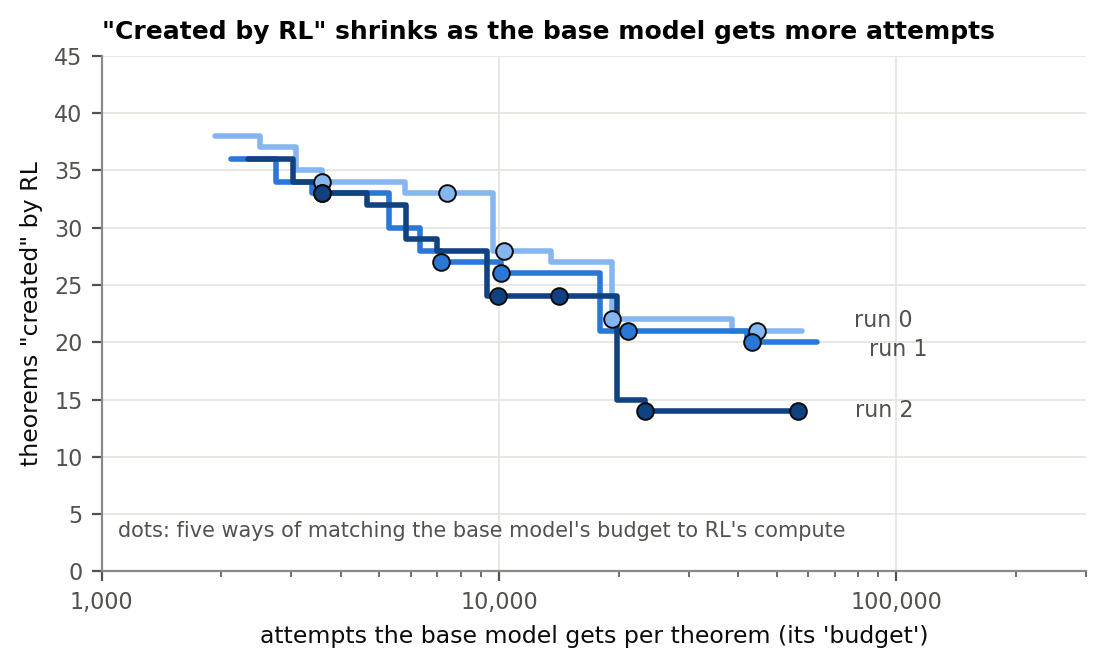
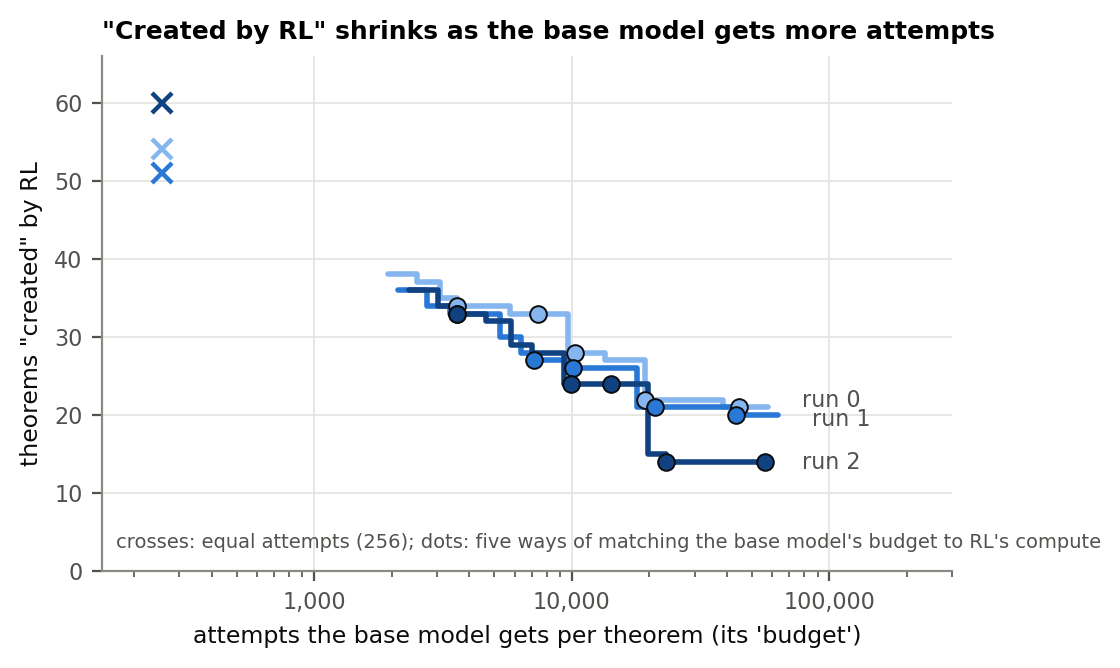
create-or-elicit-paper: blog revised after round 2; blog budget figure shows equal-k
Edited-by: agent:claude
Agent-role: executor
Run-id: create-or-elicit-paper

diff --git a/paper/scripts/figures.py b/paper/scripts/figures.py
@@ -437,12 +437,14 @@ def blog_figs():
         for kk in ('K_att', 'K_train_sameclass', 'K_evalset_sameclass', 'K_pub', 'K_adapt'):
             K = r8[kk]; cm = min(rows, key=lambda r: abs(math.log(r[0] / K)))[1]
             ax.plot([K], [cm], 'o', ms=6, color=shades[i], mec=INK, mew=0.7, zorder=4)
-    ax.set_xscale('log'); ax.set_xlim(1000, 3e5); ax.set_ylim(0, 45)
+    for i, eq in enumerate((54, 51, 60)):
+        ax.plot([256], [eq], marker='x', ms=7, color=shades[i], mew=1.6, ls='none')
+    ax.set_xscale('log'); ax.set_xlim(150, 3e5); ax.set_ylim(0, 66)
     ax.xaxis.set_major_formatter(FuncFormatter(lambda v, _: f'{int(v):,}'))
     ax.set_xlabel("attempts the base model gets per theorem (its 'budget')")
     ax.set_ylabel('theorems "created" by RL')
     ax.set_title('"Created by RL" shrinks as the base model gets more attempts')
-    ax.text(1100, 3, 'dots: five ways of matching the base model\'s budget to RL\'s compute', fontsize=7.5, color=INK2)
+    ax.text(170, 3, 'crosses: equal attempts (256); dots: five ways of matching the base model\'s budget to RL\'s compute', fontsize=7, color=INK2)
     fig.tight_layout(); save(fig, 'blog_fig3_budget')
 
     # B4: test-time compute

diff --git a/paper/blog.md b/paper/blog.md
@@ -3,27 +3,27 @@
 *Draft for Dan, 2026-10-13. Not for circulation.*
 
 *Epistemic status: one small model (9.6 million parameters), one kind of logic, one simple RL algorithm, six training
-runs per main condition (three for one extra condition). The main test was pre-registered, and someone who had not
-written the experiment's code recounted every number in it from the raw files. I would not generalise any of this to
-large language models without more work.*
+runs per main condition and three for one extra condition. The main test was pre-registered, and someone who had not
+written the experiment's code recounted its numbers from the raw files. Some analyses here were added later and are
+labelled so. I would not generalise any of this to large language models without more work.*
 
-**The short version.** We trained a tiny theorem prover from scratch, twice. Once its training data contained a
-particular classical reasoning move. Once we deleted every example of that move and topped the data back up to the same
-size. Then we ran the same simple form of reinforcement learning (RL) on both, six independent training runs
-("seeds") each. With the move in its data, five of six runs learned a new family of classical theorems during RL
-(learning a family means proving at least half of its unseen instances). Without it, no run learned any family in 16
-rounds; the best proved 2 of 106 unseen classical theorems. Putting the move back into just 1% of the data restored
-the learning on three runs out of three, in a smaller, exploratory comparison.
+**The short version.** We trained a tiny theorem prover from scratch, twice: once on data that included one classical
+reasoning move, and once with every example of that move deleted and the data topped back up to the same size. Then we
+ran the same simple form of reinforcement learning (RL), expert iteration, on both, six independent runs ("seeds")
+each. With the move in its data, five of six runs learned a new family of classical theorems during RL. ("Learning a
+family" means proving at least half of its unseen instances.) Without it, no run learned any family in 16 rounds. The
+best proved 3 of 106 unseen classical theorems in any test, and 5 after we let it run longer. Putting the move back
+into 1% of the data restored the learning on three runs out of three, in a smaller, exploratory comparison.
 
 The models trained without the move were not completely unable to make it. Given about a million tries, most of them
-stumbled onto it a handful of times, and during RL they even practised it on easy problems. RL did not carry it over
-to the problems that need it. In this small organism, this kind of RL amplified what pretraining had exposed, and did
-not, within 16 rounds, acquire it from models pretrained without it.
+stumbled onto it a handful of times, and during RL they used it routinely on easy problems. RL did not carry it over to
+the problems that need it. In this small organism, this form of RL amplified what pretraining had exposed, and did not,
+within 16 rounds, learn the classical families without it.
 
-**Why it matters.** If a model fails a task in 1,000 tries, it may still succeed once in a million. Claims that a
-capability is absent need far more attempts, or likelihood estimates. And deleting a skill from pretraining kept this
-RL from learning it, but putting 1% back undid the deletion. A closely related study found the opposite with a
-different RL algorithm, so our result may be specific to the algorithm we used.
+**Why it matters.** A model that fails a task in 1,000 tries may still succeed once in a million, so claims of absence
+need far more attempts or likelihood estimates. Deleting a skill from pretraining kept this RL from learning it, but
+putting 1% back undid the deletion. One caveat matters a lot: a closely related study found the opposite with another
+RL algorithm (GRPO), so our result may be specific to ours.
 
 ## 1. The question
 
@@ -34,27 +34,26 @@ abilities it already had, by making rare good behaviour common.
 
 The evidence is hard to read for a reason that sounds like pedantry and isn't. Suppose the base model solves a problem
 once in a million attempts. Sample it 1,000 times and you will almost certainly see nothing, and conclude "RL created
-this". Sample it 10 million times and you'll see about ten successes. The capability was there all along, just rare.
-So "the base can't" always means "the base can't within some number of attempts", and that number should be stated.
+this". Sample it 10 million times and you'll see about ten successes. So "the base can't" always means "the base can't
+within some number of attempts", and that number should be stated.
 
-You also can't retrain a frontier model without some piece of knowledge to see whether RL rediscovers it. We wanted a
-*model organism*, a small system we fully control, where we could.
+You also can't retrain a frontier model without some piece of knowledge to see if RL rediscovers it. A *model
+organism*, a small system we fully control, lets us.
 
 ## 2. A prover small enough to edit
 
 Our model is a 9.6M-parameter transformer that proves theorems of propositional logic: statements built from atoms
 like P and Q with "and", "or", "implies" (→) and "not" (¬). A theorem looks like "from ¬S → ¬P and P, conclude
-R → S". The model works step by step. At each step it sees what it currently knows and what it still has to prove, and
-writes one inference. A proof counts only if Lean, a widely used proof checker, accepts it.
+R → S". The model works step by step: at each step it sees what it knows and what it still has to prove, and writes one
+inference. A proof counts only if Lean, a widely used proof checker, accepts it.
 
 We pretrain it from scratch on 155,000 machine-generated proofs. Then we run *expert iteration*, a simple form of RL.
 Each round, the model attempts each of 4,495 training theorems 32 times, the proofs Lean accepts are added to its
 training data, and it is fine-tuned on them. We ran 16 rounds.
 
 **The move we deleted.** Classical logic allows a kind of proof by contradiction that weaker ("intuitionistic") logic
-does not. To prove S, assume "not S", derive a contradiction, conclude "not not S", and then drop the double negation.
-We call that last combination σ (sigma). Here is one in Lean, written by one of our models that had never seen σ in
-training:
+does not. To prove S, assume "not S", derive a contradiction, conclude "not not S", then drop the double negation. We
+call that combination σ (sigma). Here is one in Lean, written by one of our models pretrained without σ:
 
 ```lean
 theorem t (P R S : Prop) (h1 : ¬S → ¬P) (h2 : P) : R → S := by
@@ -66,22 +65,23 @@ theorem t (P R S : Prop) (h1 : ¬S → ¬P) (h2 : P) : R → S := by
   exact n9
 ```
 
-*(Simplified by hand from the model's literal output, which also restates the premises; Lean accepts both versions
-and rejects the same proof of the opposite claim.)*
+*(Simplified by hand from the model's output, which also restates the premises; Lean accepts both versions and rejects
+the same proof of the opposite claim.)*
 
 σ shows up in two situations. Sometimes the problem already hands you a double negation, or asks you to prove a "not"
-statement. That use is easy. The genuinely classical use proves a positive statement with no double negation
-supplied, and it is the only way to prove the theorems we test.
+statement; that use is easy. The genuinely classical use proves a positive statement with no double negation supplied,
+and it is the only way to prove the theorems we test.
 
 About 11% of the original training proofs use σ or a close variant. We made three versions of the training data:
 - **Full:** the original 155,000 proofs.
-- **Knockout:** every proof using σ or a variant removed (16,961) and replaced by fresh proofs from the same generator,
-  length for length. "Assume and refute" and "drop a double negation" both still appear, separately; only their
-  combination is gone.
+- **Knockout:** every proof using σ or a variant removed (16,961) and replaced by fresh proofs from the same generator.
+  "Assume and refute" and "drop a double negation" both still appear separately, though each became three to four times
+  rarer.
 - **1% dose:** the knockout data with 1,550 σ proofs put back.
 
-To test learning we use six families of classical theorems, such as excluded middle ("P or not P") and Peirce's law.
-We hold out 106 of their instances that can only be proved with a genuinely classical step, and never train on them.
+To test learning we use six families of classical theorems, such as excluded middle ("P or not P"), converse
+contraposition and Peirce's law. We hold out 105 of their instances, plus one similar theorem, that can only be proved
+with a genuinely classical step, and never train on them.
 
 ## 3. What happened
 
@@ -89,71 +89,75 @@ We hold out 106 of their instances that can only be proved with a genuinely clas
 
 *Figure 1. Each line is one training run. The y-axis counts the 106 held-out classical theorems proved, given 256
 attempts each, before RL and after 8, 16 and (one knockout run) 24 rounds. Blue: full data. Green: 1% dose. Orange:
-knockout. A run "learns a family" when it proves at least half of that family's held-out theorems.*
+knockout. A run learns a family when it proves at least half of that family's held-out theorems.*
 
-- **Full data:** during RL, the six runs gained 8 to 69 of the 106 held-out theorems, and five of six learned a new
-  family. One family (classical contraposition) was already learned *before* RL on five of the six, so the cleanest
-  comparison is the during-RL one: five of six against zero of six.
-- **Knockout:** the six runs gained 0 to 2 held-out theorems, and none learned any family.
+- **Full data:** during RL the six runs gained 8 to 69 of the 106, and five of six learned a new family. One family
+  (converse contraposition) was already learned *before* RL on five of the six, so the cleanest comparison is the
+  during-RL one.
+- **Knockout:** the six runs gained 0 to 2, and none learned any family.
 - **Statistics:** the pre-registered test (at least one family by round 16: six of six against zero of six) gives
-  p = 0.00024, but it is mostly decided before RL. The during-RL comparisons were not pre-registered: the gains do not
-  overlap (p = 0.0011), and new families give five of six against zero of six (p = 0.0032).
+  p = 0.00024, but it is mostly decided before RL. The during-RL comparisons were added afterwards. The gains do not
+  overlap (p = 0.0011), new families give five of six against zero of six (p = 0.0032), and on the three full runs that
+  used the same hardware as the knockout runs the gains still separate (p = 0.012).
 - **1% dose:** all three runs learned families during RL and proved 30 to 58 of the 106, inside the full runs' range.
+
+One complication: RL also replays old pretraining data, so the full runs kept seeing σ during RL and the knockout runs
+did not. We can't tell whether exposure mattered in pretraining or in that replay.
 
 ## 4. "Absent" is not quite right
 
-The knockout models were not simply missing σ, and the details are the interesting part.
+**They could make the move, rarely.** We sampled each knockout model 1.1 to 1.5 million times across the held-out
+theorems. Five of six proved some of them with a genuinely classical σ, one to seven times, almost all in one family
+(converse contraposition). On the other five families, the six models together managed one in 6.7 million tries. With
+a checker that rejects bad steps and lets the model retry, four of the six proved one within 256 attempts. Only one
+model had zero successes in 1.5 million tries, enough to certify statistically that its average rate is below what RL's
+compute could find by plain sampling. Even that holds only for plain sampling and one way of counting the budget.
 
-**They could make the move, rarely.** We sampled each knockout model about 1.1 to 1.5 million times across the held-out
-theorems. Five of six proved some of them with a genuinely classical σ, between one and seven times. Only one of the six
-had zero successes in 1.5 million tries, enough to show statistically that its average success rate is below what RL's
-compute could have found by plain sampling, and only just.
+**They practised it on easy problems.** From the first round, every knockout run used σ where the problem handed it
+the double negation, in thousands of accepted proofs. They almost never used the genuinely classical form. A
+back-of-envelope calculation is consistent with that: RL spends about 3,900 attempts per round on the 123 training
+theorems that need it, and at a few successes per million or less, that yields at most about 0.03 per round. In a
+check added afterwards, three of the six runs did better than this arithmetic predicts, so RL did nudge the rate up.
+None got as far as learning a family.
 
-**They even practised it.** From the first round of RL, every knockout run used σ on easy problems that hand you the
-double negation, and trained on hundreds to thousands of such proofs. What they almost never did was the genuinely
-classical use. A back-of-envelope calculation is consistent with that. RL spends about 3,900 attempts per round on the
-123 training theorems that need it. At the models' rates, a few in a million or less, the expected yield is at most
-0.02 classical proofs per round. Three of the six runs did better than that arithmetic predicts, reaching a classical
-training theorem by round 9 or 14, so RL did nudge the rate up. None got as far as learning a family.
-
-**Likelihoods mostly agree.** Because the model is small, we can compute how likely it is to write any given proof.
-The scores below use one of 33 equivalent spellings of each proof, so they understate it a little. For the best known σ
-proof of each held-out theorem, the full models before RL give a median log-probability between −15 and −21 (natural
-log). The knockout models give −26 to −36, roughly a hundred to a billion times less likely. During RL, one full run
-and one dose run moved strongly toward these proofs; the rest, knockout runs included, moved a few units at most, up
-or down.
+**Likelihoods.** Because the model is small, we can compute how likely it is to write any given proof (using one of 33
+equivalent spellings, which understates it a little). For the best known σ proof of each held-out theorem, the full
+models before RL give a median log-probability of −15 to −21, the knockout models −26 to −36. That is roughly a hundred
+to a billion times less likely. During RL, one full run and one dose run moved strongly toward these proofs. The rest,
+full and knockout alike, ended between 8 units lower and 4 units higher; two knockout runs rose about 8 units in the
+first four rounds and then fell back.
 
 ![How likely each model is to write the classical proofs, along RL](figures/blog_fig2_logp.png)
 
 *Figure 2. Median log-probability (higher = more likely; natural-log units) that each model writes the best known σ
 proof of a held-out classical theorem, from the end of pretraining through 16 rounds of RL.*
 
-**The one knockout run that moved.** One knockout run kept writing more genuinely classical proofs: a few per round
-from round 9, and 123 per round by round 24 (we let it run past the planned 16 rounds to watch). It never learned a
-family. At rounds 20 and 24 it proved the same five held-out theorems, just more reliably; one went from 0 to 214
-successes out of 256 tries. Its pre-RL model had already proved four of those five at least once (in roughly 2,000 to
-10,000 tries each), but not the one that improved most. Whether that counts as eliciting a rare behaviour or creating a new one is, honestly,
-borderline.
+**The one knockout run that moved.** One knockout run kept writing more genuinely classical proofs, a few per round from
+round 9 and 123 per round by round 24 (we let it run past the planned 16 rounds). It never learned a family. At rounds 20
+and 24 it proved the same five held-out theorems, just more reliably. Its pre-RL model had proved four of those five at
+least once in roughly 2,000 to 10,000 tries, but not the one that improved most (from 0 to 214 of 256). Meanwhile
+another knockout run whose model had proved three such theorems before RL learned none of them. Whether this counts as
+eliciting a rare behaviour or creating a new one is, honestly, unclear.
+
+**Seeding didn't help, at least briefly.** One extra RL round seeded with one of these rare proofs changed nothing
+measurable; in an earlier, smaller model, one injected proof had got a similar pattern going within a round.
 
 ## 5. Why "created" depends on how you count
-
-Before the knockout, we spent a lot of effort on the measurement question, and it changed how we read every result.
 
 The usual test gives the base model and the RL model the same number of attempts, say 256, and calls anything the RL
 model solves and the base doesn't "created". On three earlier full-data runs, that labels 51 to 60 of 322 evaluation
 theorems as created by RL.
 
-But RL itself spent a lot of compute. Give the base model the same compute as attempts, thousands per theorem, and the
-list shrinks. How much depends on how you convert compute into attempts, and there are several defensible ways. Across
-five of them the count falls to between 14 and 34 per run, and only 14 to 21 per run count as created under all five.
-Add controls (training without RL's proofs) and statistical certificates on a few pre-selected theorems, and only four
-(theorem, run) pairs survive everything.
+But RL itself spent a lot of compute. Give the base model that compute as attempts, thousands per theorem, and the list
+shrinks. How much depends on how you convert compute into attempts. Across five defensible conversions the count falls
+to between 14 and 34 per run, and only 14 to 21 count as created under all five. On nine hand-picked theorem–run pairs
+sampled over a million times, four survive every control at one of those budgets.
 
 ![The "created" count depends on the base model's budget](figures/blog_fig3_budget.png)
 
 *Figure 3. Theorems the RL model solves that its base can't reach within a budget of K attempts per theorem, for three
-runs; dots mark five reasonable conversions of RL's compute into base attempts. Equal attempts (256, where 51–60 look
-"created") is off the left edge.*
+runs. Dots mark five reasonable conversions of RL's compute into base attempts; crosses mark equal attempts (256), where
+51–60 look "created".*
 
 Our recommendation for anyone claiming RL created something: report the result as a curve over the base's budget,
 include a control that gets RL's training without RL's proofs, and say which number of attempts "never" means.
@@ -161,10 +165,10 @@ include a control that gets RL's training without RL's proofs, and say which num
 ## 6. Thinking harder at test time
 
 If RL mostly makes good-but-rare proofs common, then making the *base* model try harder at test time should recover
-part of RL's gain. We tried two ways. In *guided redraws*, a checker rejects a logically wrong step and the model tries
-another one. The other is *tree search* over partial proofs. Both helped the base model more than the RL model:
-- Guided redraws closed about half of the gap between the base and the RL model on one held-out set, though they use
-  about twice the compute per attempt.
+part of RL's gain. We tried *guided redraws*, where a checker rejects a logically wrong step and the model tries another
+one, and *tree search* over partial proofs. Both helped the base model more than the RL model:
+- Guided redraws halved the gap between the base and the RL model on one held-out set, though they use about twice the
+  compute per attempt.
 - Tree search, at equal time, recovered 14% to 44% of what eight RL rounds add, depending on the problem set, for the
   base. For the RL model it was within ±3 theorems of plain sampling everywhere.
 
@@ -176,27 +180,22 @@ the 250 held-out problems, so the textbook problems are the fairer comparison.*
 
 ## 7. What we did not show
 
-- **One small model on propositional logic.** We picked it because it lets us edit pretraining and compute
-  probabilities. Large models may behave differently.
+- **One small model on propositional logic.** Large models may behave differently.
 - **One RL algorithm, 16 rounds.** Ours is the simplest kind: try, keep what works, retrain. In the closest related
-  study, a different algorithm (GRPO) did build behaviour that pretraining lacked, while the family ours belongs to
-  stalled. In our own earlier, smaller models, GRPO and even a single injected example proof got similar patterns
-  started from zero. The test that would settle this here, GRPO from the knockout models, has not been run.
-- **Six runs per main condition.** Enough for the main comparison, not for most single-family tests. Excluded middle
-  was learned by only one full-data run, so we can't test it.
-- **The knockout isn't perfectly clean.** Removing σ also made its ingredients rarer in the data and cost a few
-  non-classical theorems. RL gains on other theorems were not clearly smaller, and the 1% dose, which changes the data
-  far less, restored the learning.
-- **A null we can't interpret.** "Power sampling" sharpens the base model's distribution without training. Our
-  implementation found none of RL's new solves, but it also did *worse* than plain sampling on theorems the base solves
-  rarely, so we count it as a failure of our sampler, not evidence against sharpening.
+  study GRPO built behaviour pretraining lacked while methods like ours stalled, and in our earlier, smaller models GRPO
+  started a different pattern from zero. But here, from full data, GRPO solved fewer theorems than our method. GRPO from
+  the knockout models has not been run.
+- **Six runs per main condition.** Enough for the main comparison, not for most single-family tests.
+- **The knockout isn't perfectly clean.** It made σ's ingredients rarer and cost a few non-classical theorems. The 1%
+  dose, which changes the data far less, restored the learning.
+- **A null we can't interpret.** Our implementation of "power sampling", which sharpens the base model without training,
+  found none of RL's new solves. It also did worse than plain sampling on theorems the base solves rarely, so we count it
+  as a failure of our sampler.
 
 ## 8. What's next
 
-- GRPO and more-exploratory RL from the knockout models, to separate "this algorithm doesn't explore enough" from
-  "RL can't".
-- A 0.1% dose, to see where between 0% and 1% exposure stops being enough.
-- σ examples added during RL instead of pretraining.
+- GRPO and more exploratory RL from the knockout models.
+- σ examples added during RL instead of pretraining, and a 0.1% dose.
 - More runs, for the single-family tests.
 
 Code, data and model checkpoints are in public repositories; the paper is a draft.
